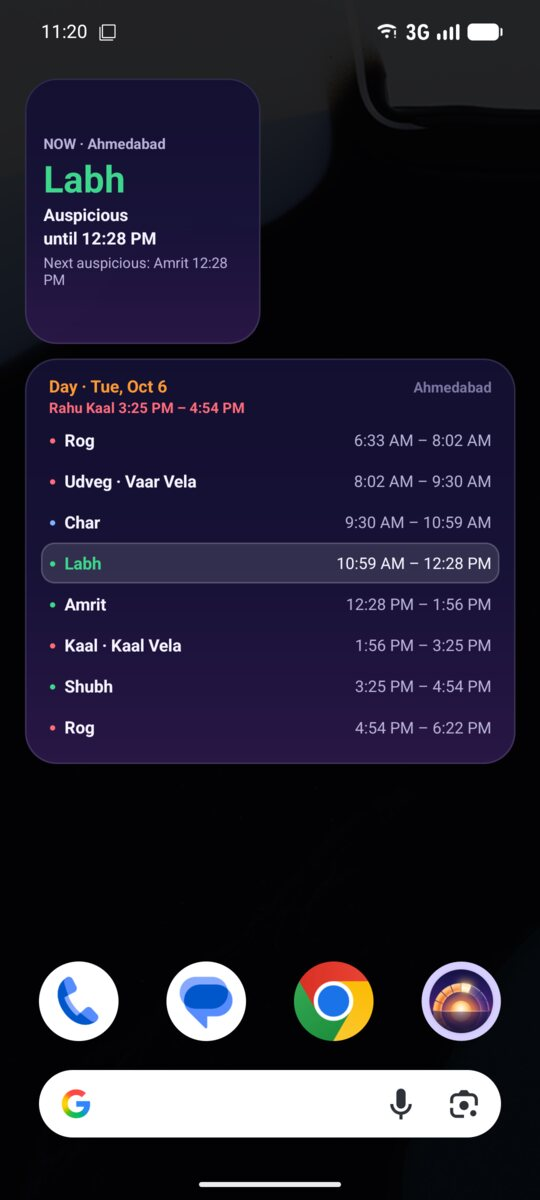
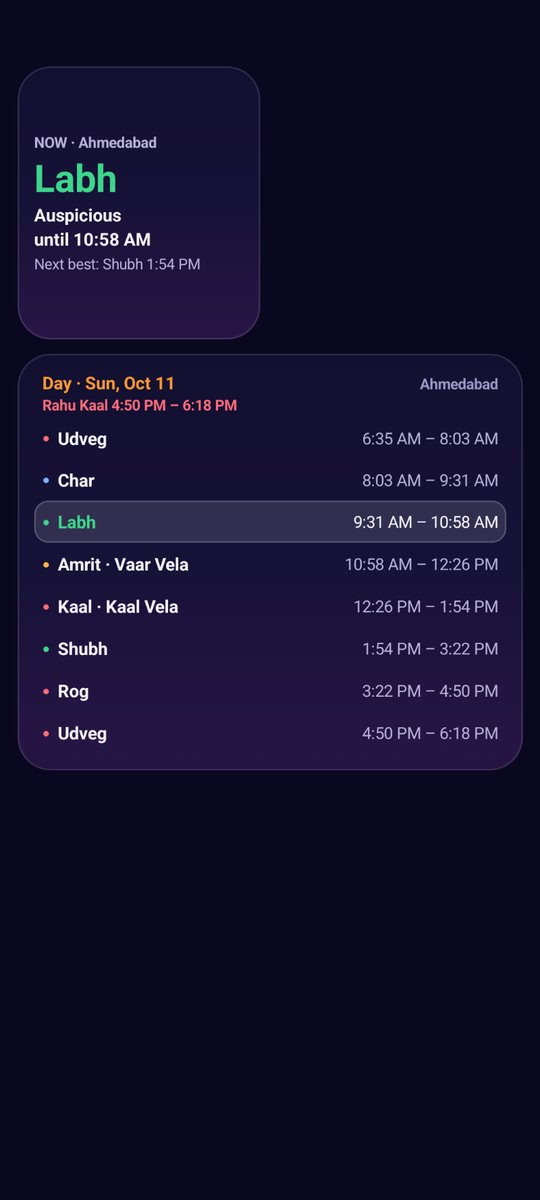
choghadiya: alt and widgets screenshot of build 5, calendar and best times, no installUrl before launch, privacy covers the error log

diff --git a/choghadiya/privacy.html b/choghadiya/privacy.html
@@ -15,7 +15,7 @@
     <meta name="description" content="Privacy policy of Shubh Samay (Choghadiya), the Android app by Sillapps: what stays on your phone, what Google AdMob and Google Play process, your rights (GDPR, US states, India DPDP)." />
     <link rel="canonical" href="https://sillapps.com/choghadiya/privacy.html" />
     <link rel="stylesheet" href="/fonts/fonts.css?v=20260930-1" />
-    <link rel="stylesheet" href="/styles.css?v=20260930-3" />
+    <link rel="stylesheet" href="/styles.css?v=20261011-1" />
   </head>
   <body>
     <main>
@@ -37,7 +37,7 @@
           <div class="meta-card">
             <p class="meta-line">App name: Shubh Samay (Choghadiya), Android package com.sillapps.choghadiya</p>
             <p class="meta-line">Developer: Sillapps</p>
-            <p class="meta-line">Last updated: September 30, 2026</p>
+            <p class="meta-line">Last updated: October 11, 2026</p>
           </div>
 
           <div class="section-grid">
@@ -56,7 +56,7 @@
 
             <section class="section">
               <h2>Data the developer collects</h2>
-              <p>None. The app does not send personal data to the developer, does not store data on a server and contains no analytics SDK. All timings are calculated on your device; the app does not download them. If you email us, we receive your email address and message and use them only to answer you. When you write from the app (&ldquo;Contact us / report a wrong time&rdquo; in Settings), your email app opens with a pre-filled message that includes the app version, your place with its coordinates and time zone, and the app language, so that we can check a timing; you can edit or remove this before sending, and nothing is sent unless you send the email.</p>
+              <p>None. The app does not send personal data to the developer, does not store data on a server and contains no analytics SDK. All timings are calculated on your device; the app does not download them. If you email us, we receive your email address and message and use them only to answer you. When you write from the app (&ldquo;Contact us / report a wrong time&rdquo; in Settings), your email app opens with a pre-filled message that includes the app version, your place with its coordinates and time zone, the app language and the app&rsquo;s latest technical errors, if any, so that we can check a timing or fix a bug; you can edit or remove this before sending, and nothing is sent unless you send the email.</p>
             </section>
 
             <section class="section">
@@ -71,7 +71,7 @@
 
             <section class="section">
               <h2>Data stored on your device</h2>
-              <p>The chosen place, your preferences (language, time format, alert settings), whether Shubh Samay Pro or its free trial is active, and simple usage counters (the first and last day you opened the app, how many days you used it, when a Pro reminder or the rating prompt was last shown) are stored only on your device. They are used to run the app and to decide when to show the ad banner, a Pro reminder or the rating prompt. Alerts and the optional morning summary are scheduled locally and the home screen widgets read timings stored locally by the app. When you share the day&rsquo;s choghadiya, the image and text go only to the app you choose in Android&rsquo;s share menu.</p>
+              <p>The chosen place, your preferences (language, time format, alert settings), whether Shubh Samay Pro or its free trial is active, and simple usage counters (the first and last day you opened the app, how many days you used it, when a Pro reminder or the rating prompt was last shown) are stored only on your device, as is a short description of the app&rsquo;s last technical errors (five at most), which reaches the developer only if you send it in a contact email. They are used to run the app and to decide when to show the ad banner, a Pro reminder or the rating prompt. Alerts and the optional morning summary are scheduled locally and the home screen widgets read timings stored locally by the app. When you share the day&rsquo;s choghadiya, the image and text go only to the app you choose in Android&rsquo;s share menu.</p>
               <p><strong>Android backup.</strong> If backup is turned on for your Google account on the device, Android may include these local settings in your Google backup so they can be restored when you reinstall the app or change phones. This backup is stored by Google under your Google account settings; the developer cannot see it. You can turn it off in Android settings.</p>
             </section>
 

diff --git a/choghadiya/index.html b/choghadiya/index.html
@@ -26,7 +26,6 @@
       "applicationCategory": "ReferenceApplication",
       "inLanguage": ["en", "hi", "gu"],
       "url": "https://sillapps.com/choghadiya/",
-      "installUrl": "https://play.google.com/store/apps/details?id=com.sillapps.choghadiya",
       "image": "https://sillapps.com/choghadiya/icon-192.png",
       "screenshot": "https://sillapps.com/choghadiya/shot-home.jpg",
       "description": "Today's choghadiya, Rahu Kaal, Yamaganda, Gulika, Abhijit and Brahma muhurat, calculated on the phone for your city and shown on its local clock.",
@@ -35,7 +34,7 @@
     }
     </script>
     <link rel="stylesheet" href="/fonts/fonts.css?v=20260930-1" />
-    <link rel="stylesheet" href="/styles.css?v=20260930-3" />
+    <link rel="stylesheet" href="/styles.css?v=20261011-1" />
   </head>
   <body>
     <main>
@@ -75,12 +74,12 @@
               <div class="shots">
                 <figure>
                   <img src="shot-home.jpg" width="540" height="1200" loading="lazy"
-                       alt="Shubh Samay home screen: the day as a dial of 8 choghadiya, Labh running in Ahmedabad with 1 h 8 min left, next auspicious Amrit at 12:28 PM" />
+                       alt="Shubh Samay home screen in Ahmedabad: the day as a dial of 8 choghadiya, Labh running with 59 min left until 10:58 AM, next best time Shubh at 1:54 PM, next Rahu Kaal 4:50 PM to 6:18 PM" />
                   <figcaption>The day's choghadiya as a dial, live</figcaption>
                 </figure>
                 <figure>
                   <img src="shot-widgets.jpg" width="540" height="1200" loading="lazy"
-                       alt="Shubh Samay home screen widgets: the current choghadiya, and today's timeline with Rahu Kaal" />
+                       alt="Shubh Samay widgets on a home screen: the free widget with Labh running in Ahmedabad until 10:58 AM and the next best time, Shubh at 1:54 PM, and the Pro widget with the day's 8 choghadiya and Rahu Kaal 4:50 PM to 6:18 PM" />
                   <figcaption>Free widget, and today's timeline with Pro</figcaption>
                 </figure>
               </div>
@@ -92,6 +91,12 @@
                 <li>Day and night choghadiya, the running one highlighted, with Vaar Vela, Kaal Vela and Kaal Ratri.</li>
                 <li>Rahu Kaal, Yamaganda and Gulika Kaal, with a warning while Rahu Kaal is running.</li>
                 <li>Today's tithi with its end time, the Hindu month and the Vikram Samvat year.</li>
+                <li>A choghadiya calendar: each date's tithi, Purnima and Amavasya marked. Tap a date to see its choghadiya.</li>
+                <li>Best times today: Amrit, Shubh and Labh outside Rahu Kaal, Yamaganda and Gulika Kaal.</li>
+                <li>Dur Muhurtam and Disha Shool (the direction to avoid) of the day.</li>
+                <li>Free notifications if you want them: the running choghadiya always in view, and at sunrise today's Rahu Kaal, Abhijit and best time.</li>
+                <li>Share the day's choghadiya as an image.</li>
+                <li>12-hour or 24-hour time.</li>
                 <li>100+ built-in cities in India and abroad (London, New Jersey, Toronto, Dubai…), your phone's location or typed coordinates.</li>
                 <li>Daylight saving time handled for cities abroad.</li>
                 <li>Checked against a published panchang over 37 days in 7 cities (London included): all within a minute, 95 % to the minute.</li>

diff --git a/choghadiya/today/index.html b/choghadiya/today/index.html
@@ -47,7 +47,7 @@
     }
     </script>
     <link rel="stylesheet" href="/fonts/fonts.css?v=20260930-1" />
-    <link rel="stylesheet" href="/styles.css?v=20260930-3" />
+    <link rel="stylesheet" href="/styles.css?v=20261011-1" />
     <link rel="stylesheet" href="today.css?v=20260930-1" />
     <!-- today.js: the app's own calculation (lib/src/astro), compiled from Dart by
          sillapps-choghadiya/tool/build_web_today.sh, which also bumps its ?v=. Do not edit by hand. -->
